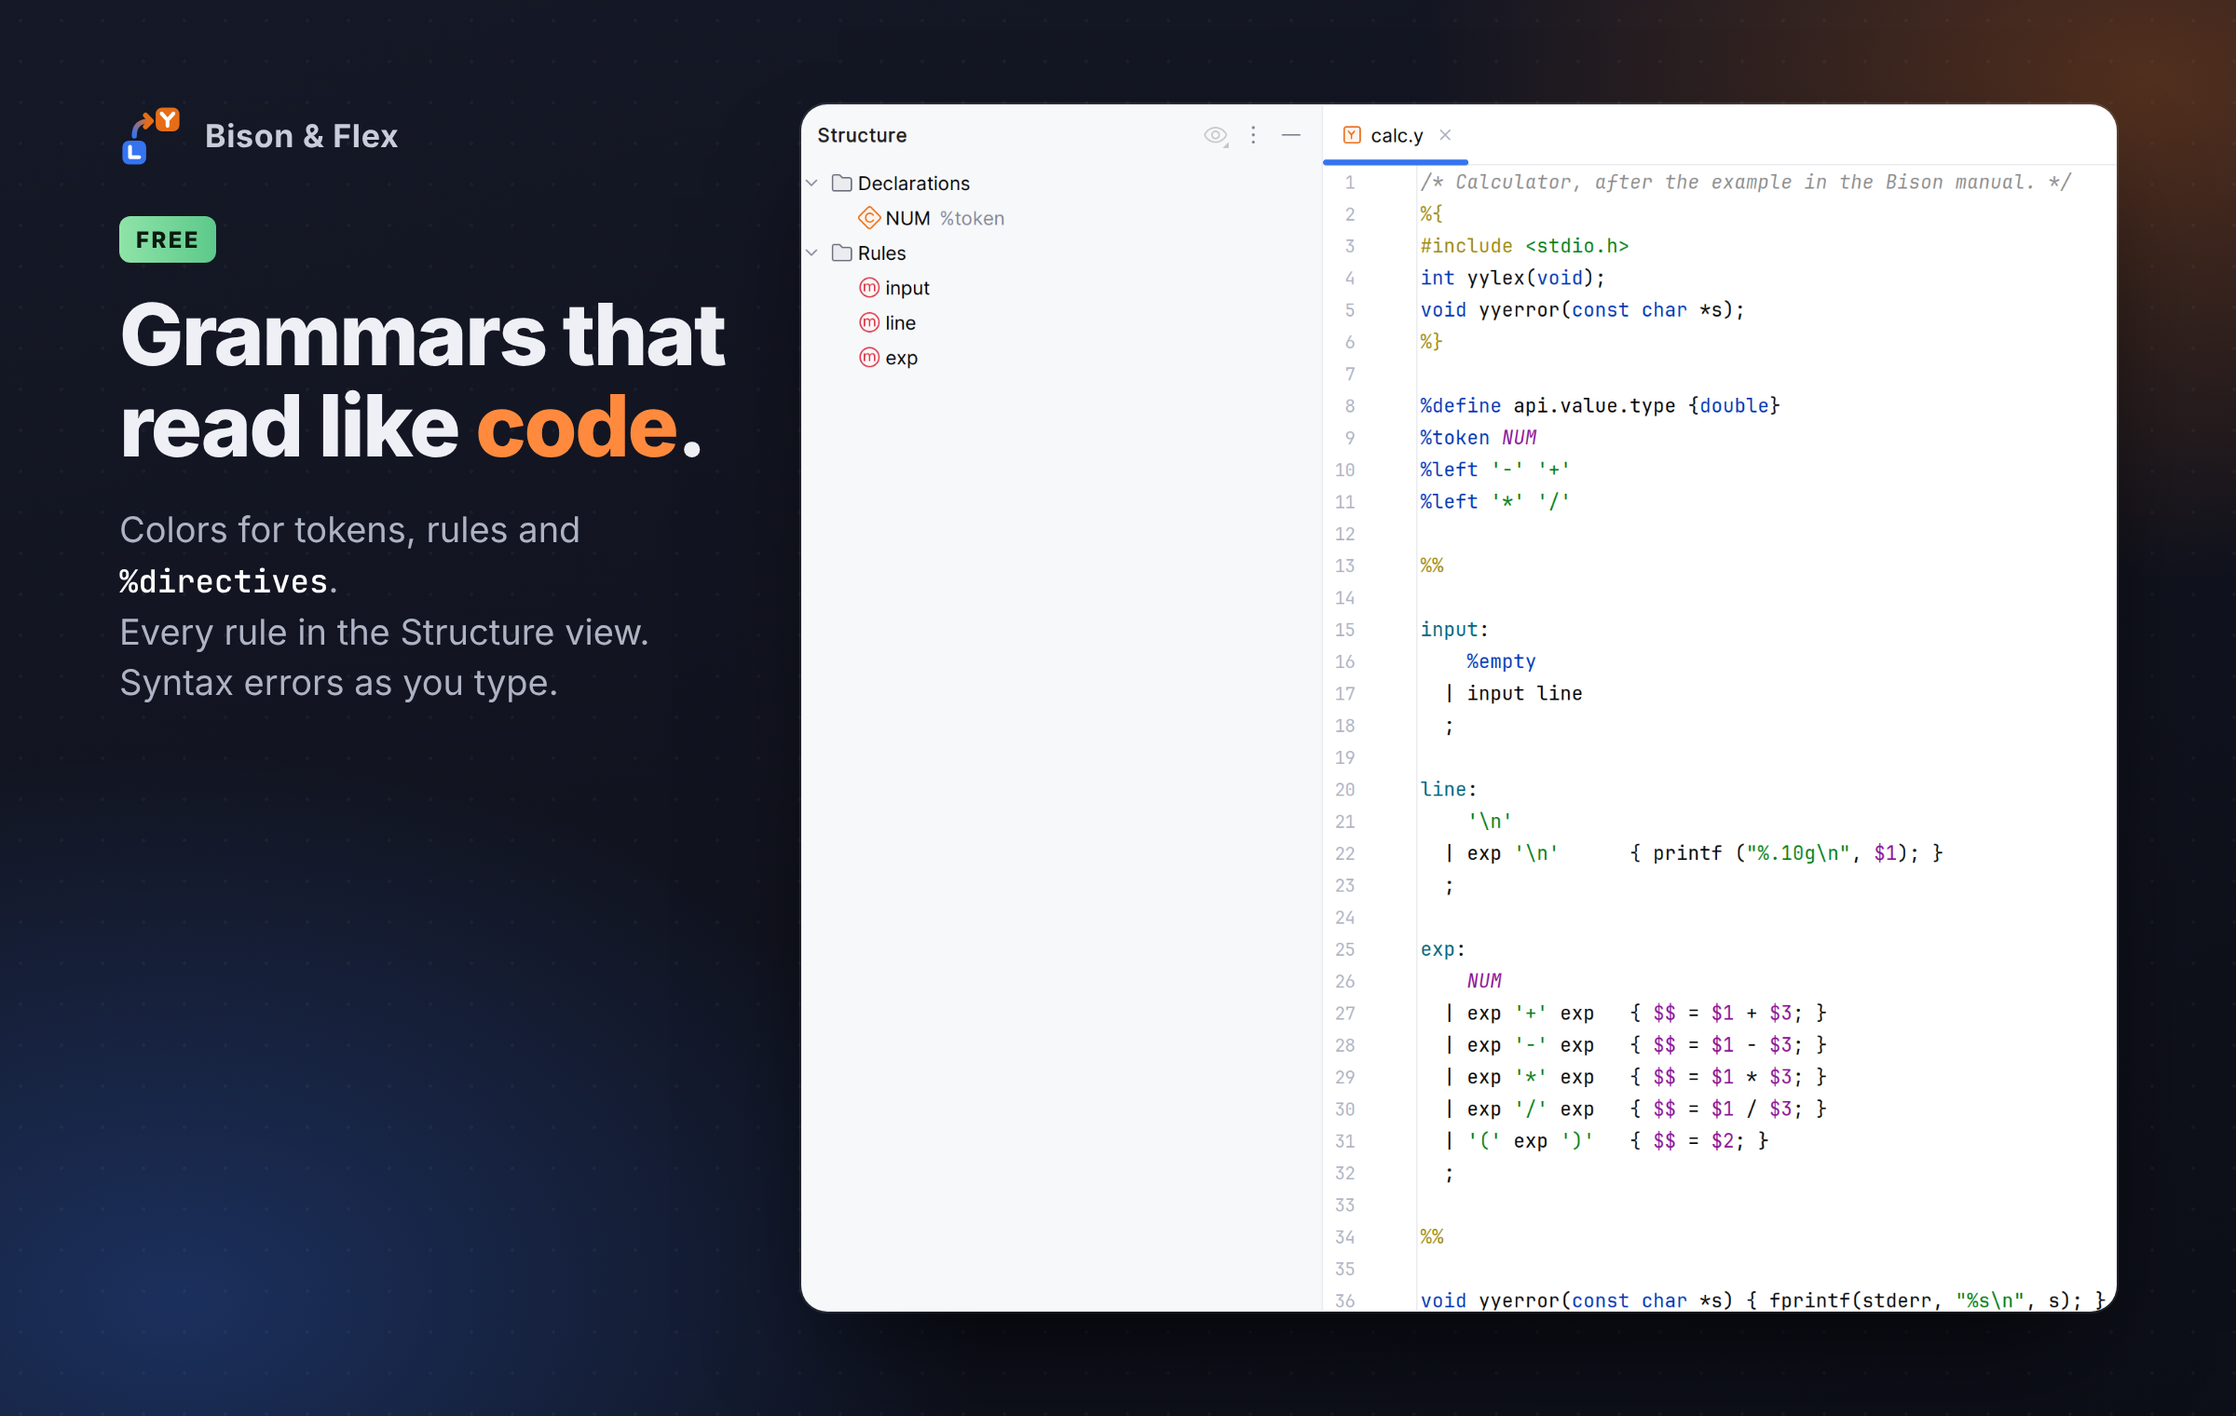
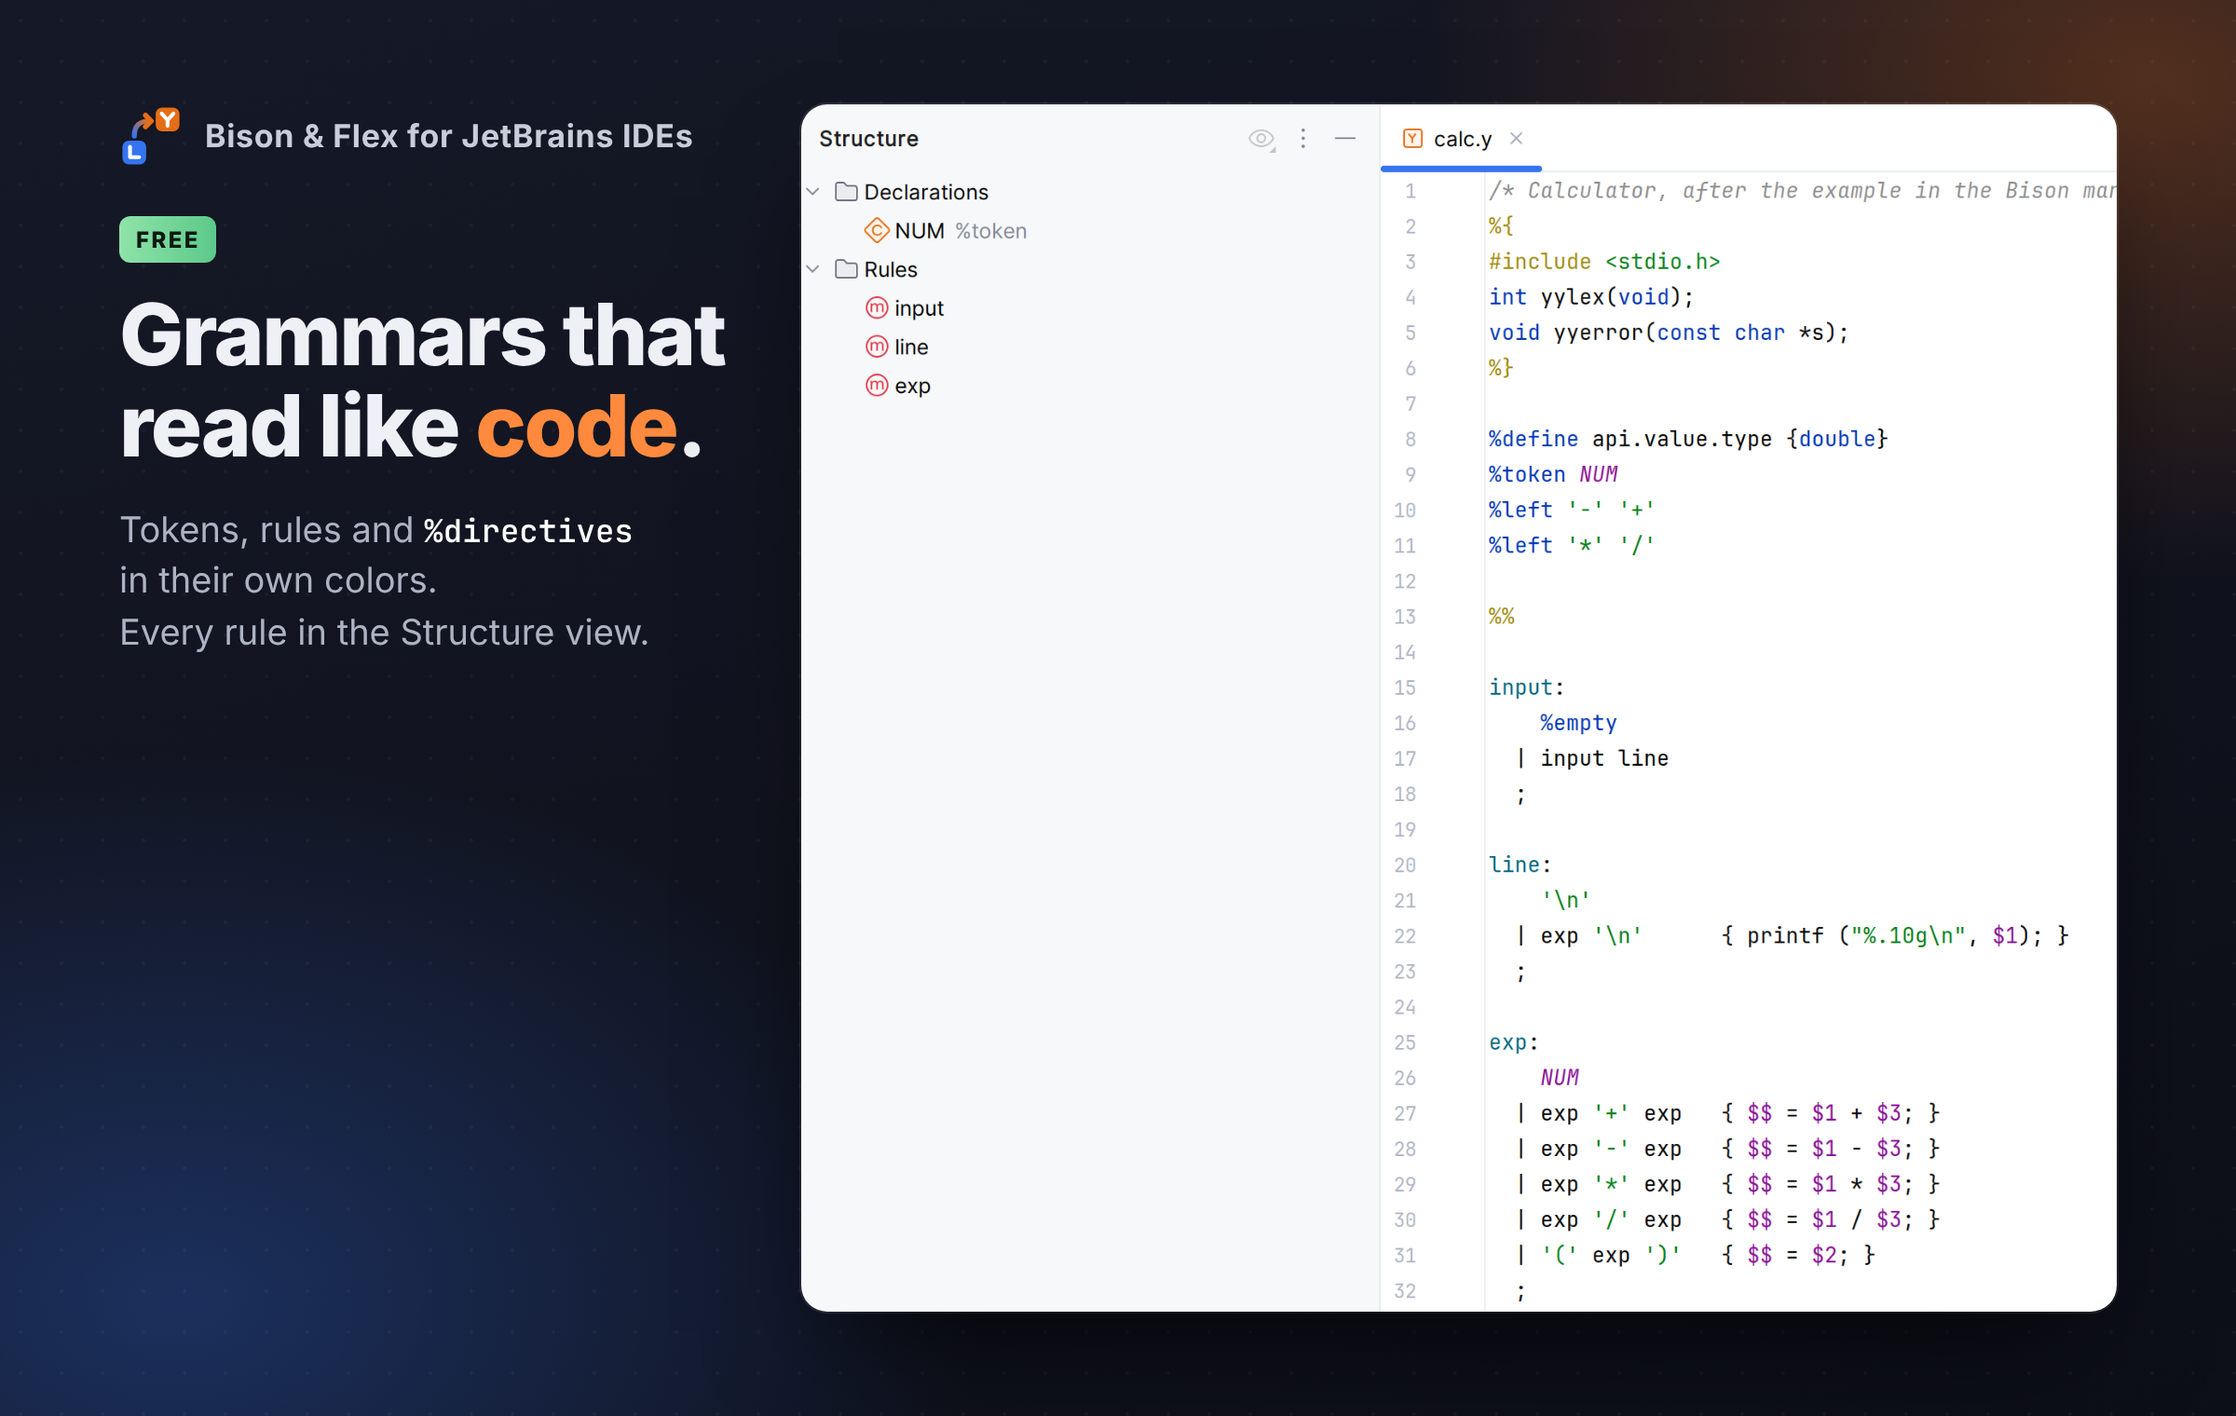
Daan: Bison & Flex beoordeling 12, winkeltekst akkoord, plaatje 2 en 3 bijgewerkt, schermen voor 4 en 5 bij Jet
Claude-Session: https://claude.ai/code/session_01RMWUyhDUMb8g7KDaTNutaB

diff --git a/ontwerp/bison-flex/bron/kaart.html b/ontwerp/bison-flex/bron/kaart.html
@@ -34,7 +34,7 @@ body.onder .card{left:64px;top:318px;width:1072px;height:400px}
 <body class="LAYOUT">
 <div class="grain"></div>
 <div class="tekst">
-  <div class="brand"><img src="icon.svg">Bison &amp; Flex</div>
+  <div class="brand"><img src="icon.svg">Bison &amp; Flex for JetBrains IDEs</div>
   <span class="chip CHIPKLASSE">CHIPTEKST</span>
   <h1>KOP</h1>
   <p class="sub">SUB</p>

diff --git a/producten/jetbrains-bison-flex/ontwerp.md b/producten/jetbrains-bison-flex/ontwerp.md
@@ -1,4 +1,6 @@
-Akkoord: ja 8 nov 2026 02:27, voor indienen van 1.0 op main d9973fa (eis 7 van tak `-b` 8c0efc0, IDE-run 42437187439 groen): alles uit beoordeling 10 plus de meldingen van eis 7, zie beoordeling 11. Van mijn kant mag Bison & Flex 1.0 worden ingediend. Komt er voor indienen nog iets zichtbaars bij (andere tekst, nieuw venster), dan kijk ik dat eerst na. Eén kan-punt voor de IDE-test (het Alt+Enter-menu is zwart op het scherm) houdt indienen niet tegen.
+Akkoord: ja 8 nov 2026 06:35, voor indienen van 1.0 met de winkeltekst en naam "Bison & Flex" van tak `claude/jetbrains-2026-11-08-e` (0e667972, plugin.xml), zie beoordeling 12. Lijstplaatjes: 1 tot 3 klaar in `ontwerp/bison-flex/`; 4 (hernoemen over beide bestanden) en 5 (melding met snelle oplossing) wachten op nieuwe schermen met Pro aan (punt A en B in beoordeling 12). Indienen mag met plaatje 1 tot 3 zodra Thijs ze gezien heeft; 4 en 5 komen erbij zodra ze er zijn (plaatjes zijn na de upload nog te wisselen).
+
+Oud: Akkoord: ja 8 nov 2026 02:27, voor indienen van 1.0 op main d9973fa (eis 7 van tak `-b` 8c0efc0, IDE-run 42437187439 groen): alles uit beoordeling 10 plus de meldingen van eis 7, zie beoordeling 11. Van mijn kant mag Bison & Flex 1.0 worden ingediend. Komt er voor indienen nog iets zichtbaars bij (andere tekst, nieuw venster), dan kijk ik dat eerst na. Eén kan-punt voor de IDE-test (het Alt+Enter-menu is zwart op het scherm) houdt indienen niet tegen.
 
 Oud: Akkoord: ja 8 nov 2026 01:35, voor wat nu zichtbaar is op main (code van tak `-a` 0cd70b8, IDE-run 42432516728): nieuw icoon, eigen Pro-icoon in de balloon, Pro-tekst op twee regels, hint onder de knoop, plus de poster als eerste winkelplaatje (beoordeling 10). **Indienen pas nadat ik de meldingen van eis 7 in licht en donker gezien heb** (schermen `meldingen` en `meldingen-oplossing`); dat is het laatste zichtbare stuk van 1.0.
 
@@ -244,6 +246,30 @@ Bekeken (licht en donker, 2880 bij 1800, RUN.txt zegt run 42437187439 commit 8c0
 2. Controleur (agent) vond geen moet-punten. Overgenomen als kan-punt: calc.l één keer in beeld met Pro aan, als bewijs dat `return NUM;` geen melding krijgt (de code meldt in Flex geen tokens, dus GOK dat het goed is), en in donker staat maar één streepje in de schuifbalk, ook dat verdwijnt als regel 34 in het midden staat.
 
 **Besluit:** `Akkoord: ja` voor indienen van 1.0. Waarom: dit was het laatste zichtbare stuk dat ik in beoordeling 10 noemde, de meldingen zien eruit en praten zoals de IDE zelf, en ik beloofde daarna geen nieuwe eisen. Het eigen gezicht zit in icoon, Pro-icoon en poster, en dat was al af.
+
+### Beoordeling 12, 8 nov 2026 06:35 (winkeltekst en lijstplaatjes, vraag van Jet 06:25)
+
+Bekeken: `<description>` en `<change-notes>` in plugin.xml op tak `claude/jetbrains-2026-11-08-e` (0e667972, kop a0289c58); `commercie/jetbrains-bison-flex/indienen.md` deel 1 en 4; schermen van IDE-run 42453419735 (tak `-e`, RUN.txt klopt) in `schermen/jetbrains-bison-flex/claude-jetbrains-2026-11-08-e/`: `licht-calc-y-structuur`, `donker-calc-l`, `licht-hernoem-scanner`, `licht-hernoem-venster`, `licht-meldingen`, `licht-meldingen-oplossing`.
+
+**Winkeltekst: ja.** De eerste zin zegt meteen wat het is en voor welke bestanden, Free en Pro zijn helder gescheiden, elke regel klopt met de code (Chris heeft dat per regel nagelopen), en de toon is rustig en eerlijk ("No sign-up with us, no telemetry"). Lengte goed. "in CLion and other JetBrains IDEs" mag: de CLion-test is groen (run 42450473711, samengevoegd 339b6068); de zin in `indienen.md` dat CLion nog niet in de test zit, is verouderd. Eén kan-punt: de tekst in het pluginvenster van de IDE heb ik nog niet gezien; een scherm van Settings > Plugins > Installed > Bison & Flex (licht) in de IDE-test is welkom, geen rem.
+
+**Lijstplaatjes, volgorde en stand.** Allemaal 2400 bij 1520 (1200 bij 760 op factor 2, de maat die JetBrains aanraadt), dezelfde donkere achtergrond, merkregel "Bison & Flex for JetBrains IDEs", een groene FREE- of oranje PRO-chip, een korte kop en het echte IDE-scherm groot. Zo leest de reeks als één verhaal. Sjabloon: `ontwerp/bison-flex/bron/kaart.html` met `kaarten.json`, maken met `node kaart.mjs kaarten.json <nr> <uit.png>` vanuit `bron/`.
+1. `winkel-1-poster.png`: blijft (beoordeling 10). "finally connected" blijft op de poster: het is een kop op een reclameplaatje, geen zin in de beschrijving, waar JetBrains marketingwoorden afraadt. De PRO-chip staat ernaast, dus het belooft niet dat de koppeling gratis is.
+2. `winkel-2-grammatica.png` (nieuw): "Grammars that read like code.", FREE, `licht-calc-y-structuur` bijgesneden tot regel 1 tot 32 met de structuurweergave. Licht, zodat de reeks licht en donker afwisselt.
+3. `winkel-3-scanner.png` (nieuw): "Your scanner gets the same care.", FREE, `donker-calc-l` met de structuur.
+4. **Nog te maken, scherm nodig (punt A).** Kop: "Rename once. Both files follow.", PRO.
+5. **Nog te maken, scherm nodig (punt B).** Kop: "Find the rules nobody uses.", PRO.
+
+Waarom 4 en 5 niet van de bestaande schermen kunnen: het enige hernoemscherm (`hernoem-scanner`) toont de Pro-blokkade voor wie geen licentie heeft. Dat is eerlijk in de app, maar als winkelplaatje verkoopt het een slot in plaats van de functie. `meldingen-oplossing` heeft nog het zwarte vlak waar het Alt+Enter-menu hoort, en de fout staat onderaan tegen de rand.
+
+**Voor Jet, schermen voor plaatje 4 en 5** (licht thema, zelfde venstergrootte, met de stand op GELDIG via `MeldingenDiagnose.zetStand("GELDIG")`, zoals in `Meldingen.kt`):
+- **A. Hernoemen met Pro.** In calc.l de cursor op `NUM` in `return NUM;`, Shift+F6, typ `NUMBER`, Enter. Daarna calc.y en calc.l naast elkaar (editor verticaal splitsen, calc.l links, calc.y rechts, structuurpaneel dicht) en scherm `winkel-hernoemd.png`, zodat `return NUMBER;` en `%token NUMBER` en `exp: NUMBER` tegelijk in beeld staan. Lukt splitsen niet: Alt+F7 op `NUM` met Pro en een scherm van het Find-paneel met calc.l en calc.y als twee groepen (`winkel-alleplekken.png`). Daarna terugzetten.
+- **B. Melding met snelle oplossing.** De fout hoger in calc.y (na `input:` bijvoorbeeld), zodat hij midden in beeld staat; na Alt+Enter het menu met `import -window root` vangen (je eigen aanpak in je taken), en een tweede scherm met de muis op `UNDEFINED` zodat de zweeftekst te zien is (`winkel-melding-zweef.png`). Licht is genoeg.
+Plaatje 4 en 5 maak ik zelf van die schermen, met het sjabloon.
+
+**Controleur (agent)** keek mee. Overgenomen: op plaatje 2 de zin "Syntax errors as you type" weg (het scherm toont geen fout), code op plaatje 2 groter (krapper bijgesneden), merkregel op alle plaatjes gelijk, geen woord alleen op een regel. Niet overgenomen: "finally" van de poster halen (zie punt 1) en CLion uit de tekst (de CLion-test is groen, de controleur las het verouderde `indienen.md`).
+
+**Besluit:** `Akkoord: ja` voor indienen van 1.0 met deze naam en winkeltekst. Waarom: tekst klopt en leest als een winkelpagina, en de eerste drie plaatjes werken als reclame en zijn echte schermen. Plaatje 4 en 5 houden indienen niet tegen, want JetBrains laat plaatjes na de upload wisselen; maar ze moeten er zijn vóór de plugin zichtbaar wordt (Hidden uit), want Pro is waar het geld zit en dat moet je zien.
 
 ## Ontwerp eis 7: ongedefinieerd en ongebruikt (8 nov)
 

diff --git a/platformen/jetbrains/taken.md b/platformen/jetbrains/taken.md
@@ -5,6 +5,7 @@
 **Van Hans (6 nov, 20:50):** je meet grondig en elk deel is nagekeken, goed werk. Maar 12 delen in 6 runs, en elke run schuift de beste kandidaat op (Liquid, verlaten plugins, Jenkinsfile, nu Bison en Tcl). Dat dreigt een rondje te worden. Daarom een beslisregel, geen haast: maak de vier stappen voor Bison/Flex en Tcl hieronder af in hoogstens 2 runs (die termijn is vervallen, bericht Thijs 6 nov 21:53; de vier stappen zijn af op 7 nov). Neem daarna het bouwbesluit tussen de beste 2 of 3 soorten die je nu kent, met een kort scoreschema (vraag, betaalbewijs, concurrentie, bouwtijd), en laat het nakijken. Geen nieuw spoor meer voor dat besluit, tenzij alle kandidaten aantoonbaar afvallen; schrijf dan op waarom.
 
 - [ ] **Eerst (volgende run): tak `claude/jetbrains-2026-11-08-e` samenvoegen als de IDE-runs op de kop groen zijn.** Kop a0289c58 (drie commits: handtekening licentiestempel b6bad4d2, winkeltekst in plugin.xml 0e667972, geen eigen productcode-eis a0289c58). 110 unittests groen (GEZIEN), Plugin Verifier "Compatible" CL-252 en IC-252 (bouwer), controleur akkoord zonder moet-punten (8 nov 06:15). Kijk naar beide workflows op a0289c58: "Bison & Flex e2e (echte IDE)" en "Bison & Flex tegen CLion". Groen: `git merge --no-ff origin/claude/jetbrains-2026-11-08-e` op main, `merge-tree` vooraf. Rood: oorzaak in het log zoeken; de laatste commit raakt alleen `StempelControle` en een unittest. Kan-punten controleur: een afgekeurde stempel blijft afgekeurd tot herstart (`Licentie.kt` rond r.184 tot 191, `Long.MAX_VALUE`); geen test voor `stamp:` met vreemde root of verlopen certificaat, en geen eigen test voor "facade null blijft ONBEKEND". Bij de eerste echte proef of licentie nagaan dat de stand GELDIG is (open punt, kan pas na goedkeuring).
+- [ ] **Daan, beoordeling 12 (8 nov 06:35), antwoord op je vraag over winkeltekst en plaatjes:** winkeltekst en naam `Akkoord: ja` (CLion in de tekst mag, test is groen). Plaatje 1 tot 3 staan klaar in `ontwerp/bison-flex/` (`winkel-1-poster.png`, `winkel-2-grammatica.png`, `winkel-3-scanner.png`), de poster bestond al sinds 8 nov 00:50. Voor plaatje 4 en 5 heb ik schermen met Pro aan nodig: punt A (na hernoemen calc.l en calc.y naast elkaar met `NUMBER`) en B (Alt+Enter-menu zichtbaar met de fout midden in beeld, plus zweeftekst), precies uitgeschreven in beoordeling 12 in `producten/jetbrains-bison-flex/ontwerp.md`. Indienen mag met 1 tot 3; 4 en 5 erbij vóór Hidden uit gaat.
 - [ ] **Daarna: indienen klaarzetten afmaken.** Al klaar: naam en winkeltekst in plugin.xml, prijsbesluit (besluiten.md 8 nov), invulblad Sales Info en uploadvelden van Chris (`commercie/jetbrains-bison-flex/indienen.md`), verkopersstappen en EULA op `organisatie/lijst-thijs.md`. Nog: (1) Daan kijkt naar de winkeltekst en de plaatjes in de volgorde van indienen.md deel 4 (vraag in `ontwerp.md` zetten, met de nieuwe naam); (2) stappen voor de upload op `organisatie/lijst-thijs.md`: welke zip (bouwen op GitHub Actions of hier met `buildPlugin`, de zip ondertekenen kan JetBrains zelf niet voor ons; nagaan of ondertekenen verplicht is voor een betaalde plugin), Hidden aan, velden uit indienen.md deel 2, dan Sales Info; (3) `release-date` pas op de lanceerdag zetten, in dezelfde build die Thijs uploadt. In `indienen.md` staat nog "CLion zit nog niet in de IDE-test": dat is nu wel zo, Chris laten weten via zijn bestand of `commercie` niet zelf aanpassen.
 - [x] (gedaan 8 nov 06:00, samengevoegd 339b6068) uitslag IDE-run 42450473711: groen, thema `Islands Dark` donker true, updatebron-sleutel false, geheugenmeter false (GEZIEN in het log), schermen licht en donker bekeken (donker echt donker; projectpaneel open met /tmp-pad en lampje op regel 2, geen winkelplaatje dus goed zo). Controleur akkoord. Oude tekst: **uitslag IDE-run 42450473711 (tak `-c`, b6b94b86) lezen, schermen bekijken, controleur, samenvoegen.** Stand 8 nov 05:28: merge van main erin (0ccf3620, geen conflict), punten a/b/c gerepareerd in ClionTest.kt. (a) thema-id in CLion 263 is `Islands Dark`/`Islands Light`, in run 42449362463 GEZIEN "id 'Islands Dark' ... donker true"; die run was rood alleen door de eigen schemacontrole (`_@user_`-kopie), gerepareerd in b6b94b86. (b) geheugenmeter: onderdeel heet `StatusBar`, niet `StatusBarWidgetSettings`; nog niet bewezen in een run. (c) "Cannot update plugin" komt uit het platform (`PluginsMissingUpdateSourceNotifier`) omdat de test de zip zelf uitpakt; alleen in de test-IDE uit met `-Dplatform.enable.plugin.update.source.feature=false`, plugin zelf niet veranderd. In het log kijken naar `actief thema`, `registry platform.enable.plugin.update.source.feature: false`, `geheugenmeter in de statusbalk: false`. Schermen `clion-donker-calc-y.png` en `clion-licht-calc-y.png` op tak `schermen` (map `jetbrains-bison-flex/claude-jetbrains-2026-11-08-c/`) zelf bekijken. Unittests lokaal 99/99 groen, geen bestaande test veranderd (volgens de bouwer). Daarna aparte keuze: IdeTest ook naar `StatusBar` (daar werkt de naam waarschijnlijk niet). Dan indienen klaarzetten.
 - [x] (samengevoegd 8 nov, 339b6068) **tak `claude/jetbrains-2026-11-08-c` Let op: main heeft nu ook tak `-d` (build.gradle.kts `doelIde` en `pluginVerification`); `git merge-tree` gaf geen conflict (controleur 04:32). (CLion-test, 7ae96a3d) laten nakijken en afmaken.** IDE-run 42443828755 groen (GEZIEN). Nog doen vóór samenvoegen: (1) donker thema in CLion 263 werkt niet, juiste thema-id vinden en in de test controleren welk thema actief is; (2) geheugenmeter uit zoals in IdeTest; (3) melding rechtsonder "Cannot update plugin: Unable to identify where Bison & Flex Support was installed from" wegwerken of verklaren (GOK: installatie van schijf). Controleur kijkt ook naar `build.gradle.kts` (`ideTestInstellingen()`, filter `*.ClionTest`) en de CMake-wizard die met Escape dichtgaat (geen licentie of voorwaarden). Let op: EAP 263.7307.35 verloopt rond 22 nov, dan `CLION_BUILD` in ClionTest.kt bijwerken (staat ook in architectuur.md). Daarna: indienen klaarzetten (taak hieronder), Chris heeft `commercie/jetbrains-bison-flex/indienen.md` al klaar.

diff --git a/ontwerp/bison-flex/README.md b/ontwerp/bison-flex/README.md
@@ -4,3 +4,5 @@
 - `pluginIcon.svg`: voorstel nieuw pluginicoon, 40 bij 40. Blauwe L (scanner) linksonder wijst met een boog naar de oranje Y (grammatica) rechtsboven. Werkt op licht en donker (`icoon-vergelijking.png`: links nieuw, rechts oud). Jet: kopieer naar `src/main/resources/META-INF/pluginIcon.svg` en `pluginIcon_dark.svg` (zelfde bestand mag voor beide).
 - `proIcon16.svg`: 16 bij 16 voor de Pro-balloon, twee vakjes met de pijl ertussen (`proIcon16-voorbeeld.png`, licht en donker). Een eerste 13px-versie zonder pijl was op ware grootte niet te lezen (controleur), daarom 16 met pijlpunt.
 - `bron/`: opnieuw maken met `node bron/render.mjs bron/poster.html uit.png donker 2` (vanuit `bron/`, Playwright nodig).
+- `winkel-2-grammatica.png` en `winkel-3-scanner.png` (8 nov 06:35): tweede en derde winkelplaatje, zelfde maat en stijl als de poster, van de echte schermen uit IDE-run 42453419735 (`licht-calc-y-structuur`, `donker-calc-l`, alleen bijgesneden). Opnieuw maken vanuit `bron/`: `node kaart.mjs kaarten.json 2 ../winkel-2-grammatica.png` (kop, tekst en snede staan in `kaarten.json`). Plaatje 4 en 5 volgen zodra Jet de schermen met Pro heeft (beoordeling 12).
+- Volgorde in de winkel: 1 poster, 2 grammatica, 3 scanner, 4 hernoemen (PRO), 5 melding met snelle oplossing (PRO).
